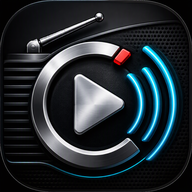
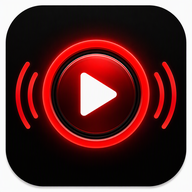
Add files via upload

diff --git a/index.html b/index.html
@@ -9,7 +9,7 @@
 <meta name="apple-mobile-web-app-capable" content="yes">
 <meta name="apple-mobile-web-app-status-bar-style" content="black-translucent">
 <meta name="apple-mobile-web-app-title" content="Balkan Radio">
-<title>Balkan Drive Radio V5</title>
+<title>Balkan Drive Radio V5.1</title>
 <style>
 :root{--bg:#070a10;--panel:#111824;--panel2:#172231;--line:#2b394d;--text:#f7f9fc;--muted:#91a0b3;--cyan:#2dc8ff;--green:#5af095;--player:166px}
 *{box-sizing:border-box;-webkit-tap-highlight-color:transparent}
@@ -17,7 +17,7 @@ html,body{margin:0;background:var(--bg);color:var(--text);font-family:-apple-sys
 body{min-height:100vh;overscroll-behavior:none}button,input{font:inherit}button{touch-action:manipulation}
 .app{max-width:560px;min-height:100vh;margin:auto;padding-bottom:calc(var(--player) + env(safe-area-inset-bottom));background:linear-gradient(180deg,#0c111a,#070a10 44%)}
 header{position:sticky;top:0;z-index:20;display:flex;align-items:center;gap:11px;padding:calc(10px + env(safe-area-inset-top)) 14px 10px;background:#080c13f2;backdrop-filter:blur(16px);border-bottom:1px solid var(--line)}
-.logo{width:44px;height:44px;border-radius:14px;background:conic-gradient(#f44,#fd5,#5e8,#38f,#b5f,#f44);display:grid;place-items:center;box-shadow:0 0 20px #2dc8ff22}.logo:after{content:'▶';width:30px;height:30px;border-radius:10px;background:#080b11;display:grid;place-items:center;font-size:14px}
+.logo{width:44px;height:44px;border-radius:14px;background:url('icon-192.png') center/cover no-repeat;box-shadow:0 0 20px #ff202055}.logo:after{content:none}
 .brand{min-width:0}.brand b{display:block;font-size:19px;line-height:1.05}.brand small{display:block;margin-top:4px;color:#91a4bb;font-size:12px;font-weight:800}.live-pill{margin-left:auto;border:1px solid #2b7650;background:#123822;color:#79ffad;padding:7px 9px;border-radius:99px;font-size:11px;font-weight:900}
 .controls{padding:11px 12px 8px;display:grid;grid-template-columns:1fr auto;gap:9px}.search{height:48px;border:1px solid var(--line);border-radius:15px;background:#111823;color:white;padding:0 15px;font-size:17px;outline:none}.count{min-width:68px;border:1px solid var(--line);border-radius:15px;background:var(--panel);display:grid;place-items:center;color:#9fb0c4;font-size:12px;font-weight:900}
 .list{padding:0 11px}.station{width:100%;min-height:84px;margin-bottom:9px;padding:9px 10px;display:grid;grid-template-columns:54px 1fr 46px;gap:12px;align-items:center;text-align:left;color:white;border:1px solid var(--line);border-radius:18px;background:linear-gradient(145deg,#17202d,#0f151e);box-shadow:0 8px 22px #0004}.station:active{transform:scale(.985)}.station.playing{border-color:var(--cyan);box-shadow:0 0 0 2px #28c8ff22,0 8px 22px #0005}
@@ -32,7 +32,7 @@ header{position:sticky;top:0;z-index:20;display:flex;align-items:center;gap:11px
 <body>
 <audio id="audio" preload="none" playsinline></audio>
 <div class="app">
-<header><div class="logo"></div><div class="brand"><b>Balkan Drive Radio</b><small>Version 5.0 · 16 Sender</small></div><div class="live-pill">● LIVE</div></header>
+<header><div class="logo app-icon"></div><div class="brand"><b>Balkan Drive Radio</b><small>Version 5.1 · 16 Sender</small></div><div class="live-pill">● LIVE</div></header>
 <div class="controls"><input id="search" class="search" placeholder="Sender suchen …" autocomplete="off"><div id="count" class="count">16</div></div>
 <div id="list" class="list"><button class="station" data-id="sehara" data-name="Radio Sehara" data-stream="https://sehara.name.ba/;">
   <span class="station-logo">SEH</span>

diff --git a/sw.js b/sw.js
@@ -1,1 +1,1 @@
-const CACHE='balkan-drive-radio-v5';const APP=['./','./index.html','./manifest.webmanifest','./icon-180.png','./icon-192.png','./icon-512.png'];self.addEventListener('install',e=>e.waitUntil(caches.open(CACHE).then(c=>c.addAll(APP)).then(()=>self.skipWaiting())));self.addEventListener('activate',e=>e.waitUntil(caches.keys().then(keys=>Promise.all(keys.filter(k=>k!==CACHE).map(k=>caches.delete(k)))).then(()=>self.clients.claim())));self.addEventListener('fetch',e=>{if(e.request.destination==='audio')return;e.respondWith(fetch(e.request).catch(()=>caches.match(e.request).then(r=>r||caches.match('./index.html'))))});
+const CACHE='balkan-drive-radio-v5-1';const APP=['./','./index.html','./manifest.webmanifest','./icon-180.png','./icon-192.png','./icon-512.png'];self.addEventListener('install',e=>e.waitUntil(caches.open(CACHE).then(c=>c.addAll(APP)).then(()=>self.skipWaiting())));self.addEventListener('activate',e=>e.waitUntil(caches.keys().then(keys=>Promise.all(keys.filter(k=>k!==CACHE).map(k=>caches.delete(k)))).then(()=>self.clients.claim())));self.addEventListener('fetch',e=>{if(e.request.destination==='audio')return;e.respondWith(fetch(e.request).catch(()=>caches.match(e.request).then(r=>r||caches.match('./index.html'))))});
